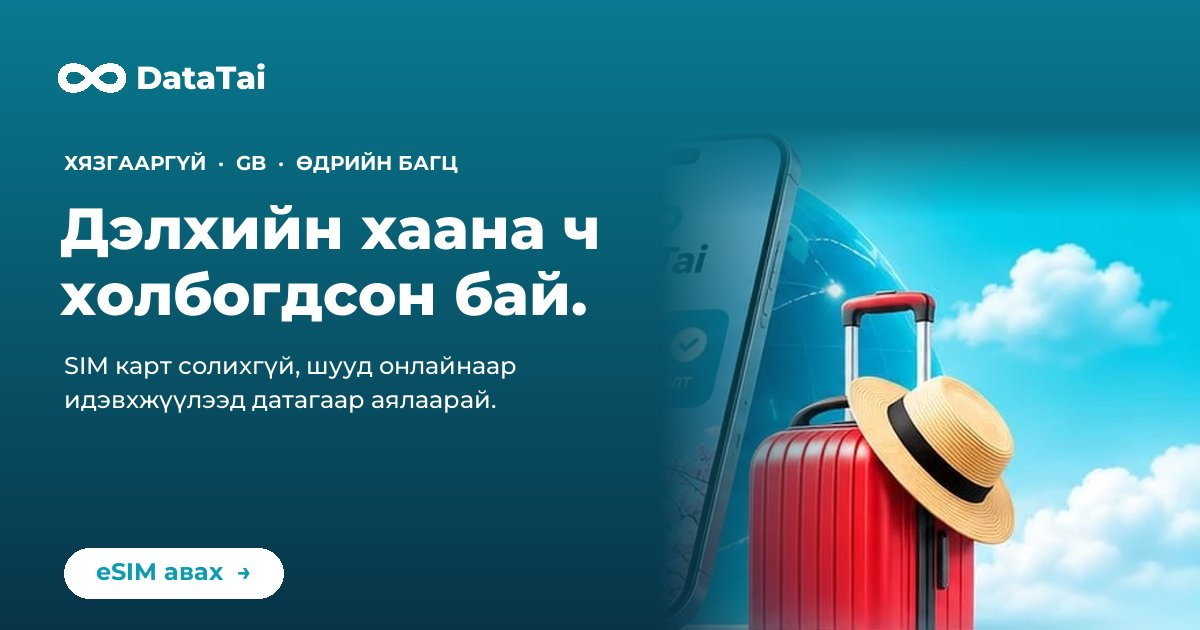
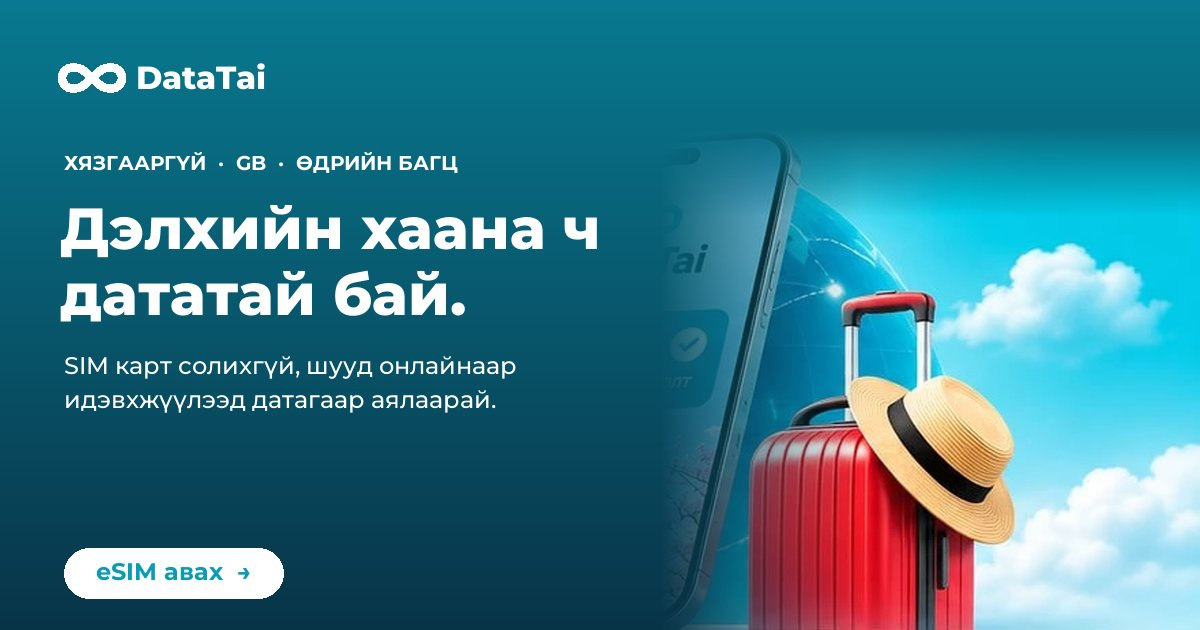
Landing: "дататай бай" headline, lighter phone layout
Headline is now "Дэлхийн хаана ч / дататай бай." (share card too). The two
hero buttons are gone; the header keeps "eSIM авах".

On the phone: the hero subtitle, the five-feature bar and the destinations
subtitle are hidden; "Аяллын eSIM багцууд" fits one line; the three plan
kinds and the three steps each sit in one row of three compact tiles
(descriptions on desktop only). Desktop is unchanged apart from the text.

Changed region(s): [[0.0308, 0.4222, 0.4933, 0.5127]]

diff --git a/artifacts/esim-store/src/pages/home.tsx b/artifacts/esim-store/src/pages/home.tsx
@@ -1,7 +1,7 @@
 import { Link } from 'wouter';
 import { useLanguage } from '@/hooks/use-language';
 import {
-  ArrowRight, Play, Wifi, Zap, ShieldCheck, Smartphone, Headphones,
+  ArrowRight, Wifi, Zap, ShieldCheck, Smartphone, Headphones,
   ShoppingCart, QrCode, SmartphoneNfc, ChevronRight, Infinity as InfinityIcon, Database, CalendarDays,
 } from 'lucide-react';
 
@@ -75,31 +75,14 @@ export default function Home() {
           <div className="relative z-10">
             <Eyebrow>{mn ? 'Аяллын хязгааргүй дата' : 'Unlimited travel data'}</Eyebrow>
             <h1 className="mt-4 font-display text-[36px] font-extrabold leading-[1.05] tracking-tight text-[#0F2A3A] sm:text-5xl md:text-[40px] lg:text-[50px] xl:text-[58px]">
-              <span className="block whitespace-nowrap">{mn ? 'Дэлхийн хаана ч' : 'Stay connected'}</span>
-              <span className="block whitespace-nowrap text-brand">{mn ? 'Холбогдсон бай.' : 'anywhere.'}</span>
+              <span className="block whitespace-nowrap">{mn ? 'Дэлхийн хаана ч' : 'Anywhere, stay'}</span>
+              <span className="block whitespace-nowrap text-brand">{mn ? 'дататай бай.' : 'with data.'}</span>
             </h1>
-            <p className="mt-4 max-w-md text-base leading-relaxed text-[#33505E] md:text-lg">
+            <p className="mt-4 hidden max-w-md text-base leading-relaxed text-[#33505E] md:block md:text-lg">
               {mn
                 ? 'Аяллын eSIM – SIM карт солихгүй, шууд онлайнаар идэвхжүүлээд датагаар аялаарай.'
                 : 'Travel eSIM – no SIM swap. Activate online and travel with data.'}
             </p>
-            <div className="mt-7 flex flex-wrap items-center gap-3">
-              <Link
-                href="/countries"
-                className="inline-flex h-14 items-center gap-2 rounded-full bg-[var(--accent)] px-8 text-lg font-bold text-white shadow-[0_12px_28px_color-mix(in_srgb,var(--accent)_35%,transparent)] transition-transform hover:-translate-y-0.5 hover:bg-[var(--accent-hover)]"
-              >
-                {mn ? 'eSIM авах' : 'Get eSIM'} <ArrowRight className="h-5 w-5" />
-              </Link>
-              <Link
-                href="/how-it-works"
-                className="inline-flex h-14 items-center gap-3 rounded-full border-2 border-brand bg-white/70 pl-2 pr-6 text-sm font-bold text-[#0F2A3A] backdrop-blur hover:bg-white"
-              >
-                <span className="flex h-10 w-10 items-center justify-center rounded-full border-2 border-brand text-brand">
-                  <Play className="ml-0.5 h-4 w-4 fill-current" />
-                </span>
-                {mn ? 'Хэрхэн ажилладаг вэ?' : 'How does it work?'}
-              </Link>
-            </div>
           </div>
 
           <div className="relative -mx-4 md:mx-0 md:-mr-10">
@@ -117,7 +100,7 @@ export default function Home() {
 
         {/* Feature bar */}
         <div className="container mx-auto max-w-7xl px-4">
-          <div className="relative z-10 mt-4 grid grid-cols-2 gap-x-3 gap-y-4 rounded-3xl bg-white/95 p-4 shadow-[0_18px_40px_rgba(15,42,58,0.10)] ring-1 ring-black/[0.04] sm:grid-cols-3 md:mt-0 md:grid-cols-5 md:gap-0 md:p-5">
+          <div className="relative z-10 mt-4 hidden grid-cols-2 gap-x-3 gap-y-4 rounded-3xl bg-white/95 p-4 shadow-[0_18px_40px_rgba(15,42,58,0.10)] ring-1 ring-black/[0.04] sm:grid-cols-3 md:mt-0 md:grid md:grid-cols-5 md:gap-0 md:p-5">
             {features.map(({ icon: Icon, t, d }, i) => (
               <div
                 key={t}
@@ -142,10 +125,10 @@ export default function Home() {
               <span className="h-[3px] w-7 rounded-full bg-[var(--accent)]" />
               {mn ? 'Онцлох чиглэлүүд' : 'Top destinations'}
             </p>
-            <h2 className="mt-3 font-display text-3xl font-extrabold leading-tight text-[#0F2A3A] md:text-[34px]">
-              {mn ? <>Аяллын<br />eSIM багцууд</> : <>Travel<br />eSIM plans</>}
+            <h2 className="mt-3 whitespace-nowrap font-display text-2xl font-extrabold leading-tight text-[#0F2A3A] md:whitespace-normal md:text-[34px]">
+              {mn ? <>Аяллын <br className="hidden md:inline" />eSIM багцууд</> : <>Travel <br className="hidden md:inline" />eSIM plans</>}
             </h2>
-            <p className="mt-3 text-[15px] leading-relaxed text-[#33505E]">
+            <p className="mt-3 hidden text-[15px] leading-relaxed text-[#33505E] md:block">
               {mn ? 'Хамгийн эрэлттэй 8 улс руу хязгааргүй датагаар аялаарай.' : 'Travel the 8 most popular countries with unlimited data.'}
             </p>
             <Link
@@ -189,33 +172,33 @@ export default function Home() {
       </section>
 
       {/* ── Three kinds of plans ─────────────────────────── */}
-      <section className="container mx-auto max-w-7xl px-4 pb-12 md:pb-14">
+      <section className="container mx-auto max-w-7xl px-4 pb-8 md:pb-14">
         <div className="text-center">
-          <h2 className="font-display text-2xl font-extrabold text-[#0F2A3A] md:text-3xl">
+          <h2 className="font-display text-xl font-extrabold text-[#0F2A3A] md:text-3xl">
             {mn ? 'Таны аялалд тохирох багц' : 'A plan for every trip'}
           </h2>
-          <p className="mt-2 text-[15px] text-[#33505E]">
+          <p className="mt-2 hidden text-[15px] text-[#33505E] md:block">
             {mn ? 'Нэг сайтад гурван төрөл — өөрт хэрэгтэйгээ л сонго.' : 'Three kinds in one place — take only what you need.'}
           </p>
         </div>
-        <div className="mt-6 grid gap-3 md:grid-cols-3 md:gap-4">
+        <div className="mt-4 grid grid-cols-3 gap-2 md:mt-6 md:gap-4">
           {kinds.map(({ tab, icon: Icon, t, d, tag }, i) => (
             <Link
               key={tab}
               href={`/countries/china?tab=${tab}`}
-              className={`group relative flex flex-col rounded-3xl p-5 transition-all hover:-translate-y-1 ${
+              className={`group relative flex flex-col items-center rounded-2xl p-3 text-center transition-all hover:-translate-y-1 md:items-start md:rounded-3xl md:p-5 md:text-left ${
                 i === 0
                   ? 'bg-brand text-on-brand shadow-[0_16px_36px_color-mix(in_srgb,var(--brand)_30%,transparent)]'
                   : 'bg-white ring-1 ring-black/[0.06] shadow-[0_6px_18px_rgba(15,42,58,0.06)]'
               }`}
             >
-              <span className={`w-fit rounded-full px-2.5 py-1 text-[11px] font-bold ${i === 0 ? 'bg-white/20 text-on-brand' : 'bg-brand-soft text-brand-ink'}`}>
+              <span className={`hidden w-fit rounded-full px-2.5 py-1 text-[11px] font-bold md:inline-block ${i === 0 ? 'bg-white/20 text-on-brand' : 'bg-brand-soft text-brand-ink'}`}>
                 {tag}
               </span>
-              <Icon className={`mt-4 h-9 w-9 ${i === 0 ? 'text-on-brand' : 'text-brand'}`} strokeWidth={2.4} />
-              <p className={`mt-3 font-display text-xl font-extrabold ${i === 0 ? '' : 'text-[#0F2A3A]'}`}>{t}</p>
-              <p className={`mt-1.5 text-sm leading-relaxed ${i === 0 ? 'text-on-brand/85' : 'text-[#33505E]'}`}>{d}</p>
-              <span className={`mt-4 inline-flex items-center gap-1 text-sm font-bold ${i === 0 ? 'text-on-brand' : 'text-[var(--accent)]'}`}>
+              <Icon className={`h-7 w-7 md:mt-4 md:h-9 md:w-9 ${i === 0 ? 'text-on-brand' : 'text-brand'}`} strokeWidth={2.4} />
+              <p className={`mt-2 font-display text-[13px] font-extrabold leading-tight md:mt-3 md:text-xl ${i === 0 ? '' : 'text-[#0F2A3A]'}`}>{t}</p>
+              <p className={`mt-1.5 hidden text-sm leading-relaxed md:block ${i === 0 ? 'text-on-brand/85' : 'text-[#33505E]'}`}>{d}</p>
+              <span className={`mt-4 hidden items-center gap-1 text-sm font-bold md:inline-flex ${i === 0 ? 'text-on-brand' : 'text-[var(--accent)]'}`}>
                 {mn ? 'Багцууд үзэх' : 'See plans'} <ArrowRight className="h-4 w-4 transition-transform group-hover:translate-x-0.5" />
               </span>
             </Link>
@@ -224,29 +207,29 @@ export default function Home() {
       </section>
 
       {/* ── Three steps ──────────────────────────────────── */}
-      <section className="container mx-auto max-w-7xl px-4 pb-14">
-        <div className="grid items-center gap-6 rounded-3xl bg-brand-soft p-6 md:grid-cols-[230px_1fr] md:gap-8 md:p-8">
+      <section className="container mx-auto max-w-7xl px-4 pb-10 md:pb-14">
+        <div className="grid items-center gap-4 rounded-3xl bg-brand-soft p-4 md:grid-cols-[230px_1fr] md:gap-8 md:p-8">
           <div className="md:border-r md:border-brand-border md:pr-6">
-            <h2 className="font-display text-2xl font-extrabold leading-tight text-[#0F2A3A] md:text-[28px]">
-              {mn ? 'eSIM ашиглах' : 'Use eSIM in'}
-              <span className="block text-[var(--accent)]">{mn ? '3 энгийн алхам' : '3 easy steps'}</span>
+            <h2 className="text-center font-display text-lg font-extrabold leading-tight text-[#0F2A3A] md:text-left md:text-[28px]">
+              {mn ? 'eSIM ашиглах' : 'Use eSIM in'}{' '}
+              <span className="text-[var(--accent)] md:block">{mn ? '3 энгийн алхам' : '3 easy steps'}</span>
             </h2>
-            <span className="mt-2 block h-1 w-20 rounded-full bg-[var(--accent)]" />
+            <span className="mt-2 hidden h-1 w-20 rounded-full bg-[var(--accent)] md:block" />
           </div>
 
-          <div className="grid gap-5 md:grid-cols-[1fr_auto_1fr_auto_1fr] md:items-center md:gap-3">
+          <div className="grid grid-cols-3 gap-2 md:grid-cols-[1fr_auto_1fr_auto_1fr] md:items-center md:gap-3">
             {steps.map(({ icon: Icon, t, d }, i) => (
               <div key={t} className="contents">
-                <div className="flex items-center gap-4">
-                  <div className="relative flex h-16 w-16 shrink-0 items-center justify-center rounded-2xl bg-brand-tint md:h-[72px] md:w-[72px]">
-                    <Icon className="h-8 w-8 text-brand-ink" strokeWidth={2} />
+                <div className="flex flex-col items-center gap-2 text-center md:flex-row md:gap-4 md:text-left">
+                  <div className="relative flex h-14 w-14 shrink-0 items-center justify-center rounded-2xl bg-brand-tint md:h-[72px] md:w-[72px]">
+                    <Icon className="h-7 w-7 text-brand-ink md:h-8 md:w-8" strokeWidth={2} />
                     <span className="absolute -right-2 -top-2 flex h-6 w-6 items-center justify-center rounded-full bg-[var(--accent)] text-xs font-extrabold text-white ring-2 ring-white">
                       {i + 1}
                     </span>
                   </div>
                   <div>
-                    <p className="font-extrabold text-[#0F2A3A]">{t}</p>
-                    <p className="mt-0.5 text-[13px] leading-snug text-[#33505E]">{d}</p>
+                    <p className="text-[12px] font-extrabold leading-tight text-[#0F2A3A] md:text-base">{t}</p>
+                    <p className="mt-0.5 hidden text-[13px] leading-snug text-[#33505E] md:block">{d}</p>
                   </div>
                 </div>
                 {i < steps.length - 1 && <ChevronRight className="hidden h-6 w-6 text-[var(--accent)] md:block" />}
